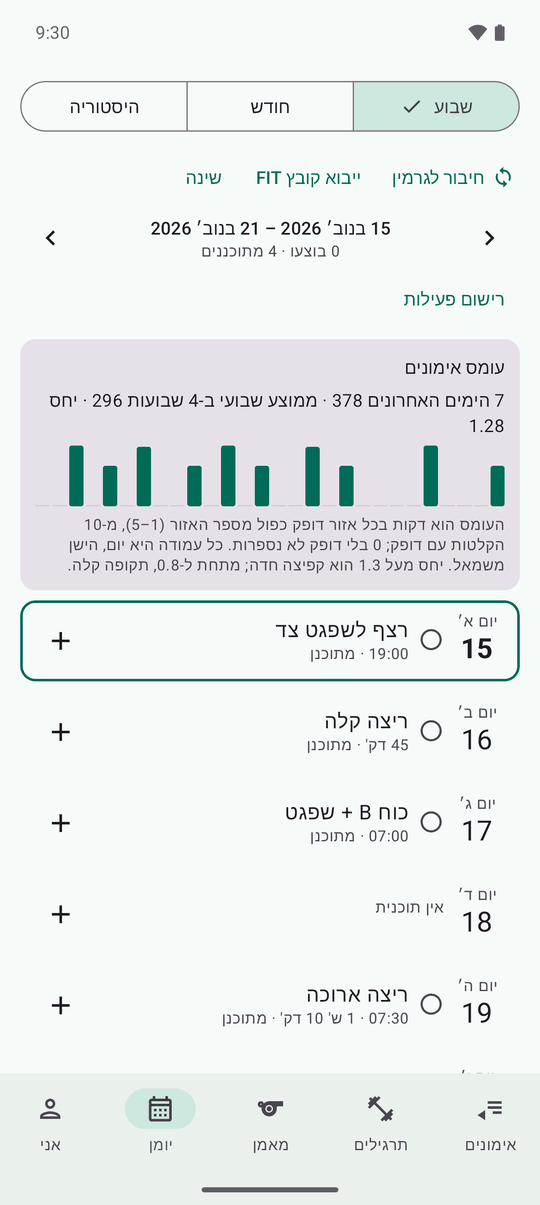
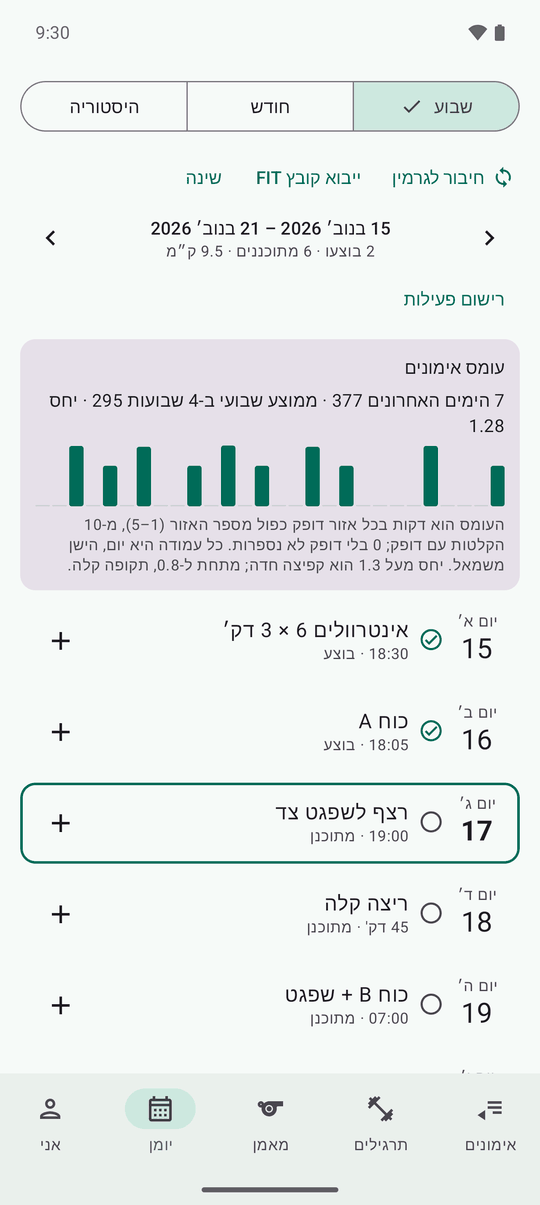
Demo data: a recovery after the last rep too; retake screenshots and tour
The demo intervals run now has a 2-minute recovery after the sixth rep (the
cool-down is that much shorter) and the plan matches. The coach's answer no
longer says "tomorrow" about a run on a different day. Screenshots and the
tour are retaken (the journal week now shows the current week).

diff --git a/app/src/debug/java/com/yonizilber/flownics/demo/DemoSeeder.kt b/app/src/debug/java/com/yonizilber/flownics/demo/DemoSeeder.kt
@@ -335,9 +335,9 @@ class DemoSeeder @Inject constructor(
             add(PlannedStep(SegmentKind.WARMUP, durationSeconds = 15 * 60, maxHeartRate = 150))
             repeat(6) { i ->
                 add(PlannedStep(SegmentKind.WORK, durationSeconds = 180, paceFastSecondsPerKm = 265, paceSlowSecondsPerKm = 275))
-                if (i < 5) add(PlannedStep(SegmentKind.RECOVERY, durationSeconds = 120))
+                add(PlannedStep(SegmentKind.RECOVERY, durationSeconds = 120))
             }
-            add(PlannedStep(SegmentKind.COOLDOWN, durationSeconds = 10 * 60))
+            add(PlannedStep(SegmentKind.COOLDOWN, durationSeconds = 8 * 60))
         }
         fun day(offset: Int) = today.plusDays(offset.toLong())
         listOf(
@@ -452,11 +452,11 @@ class DemoSeeder @Inject constructor(
         val answer = if (!he) {
             "${if (inRange == paces.size) "All" else "$inRange of"} your ${paces.size} repeats landed inside the 4:25–4:35 target (${paces.joinToString(", ") { fmt(it) }}), and the last one was the fastest, so there was more in the tank.\n\n" +
                 "Heart rate climbed a little from rep to rep (${reps.first().maxHr} → ${reps.last().maxHr} bpm at the peak), normal drift for 6 × 3 minutes, and it fell by about $drop bpm in each 2-minute jog: a good recovery.\n\n" +
-                "Next time keep the same paces and add a seventh repeat. Tomorrow's easy run: stay under 150 bpm."
+                "Next time keep the same paces and add a seventh repeat. Your next easy run: stay under 150 bpm."
         } else {
             "${if (inRange == paces.size) "כל ${paces.size}" else "$inRange מתוך ${paces.size}"} החזרות נכנסו לטווח היעד 4:25–4:35 (${paces.joinToString(", ") { fmt(it) }}), והאחרונה הייתה המהירה ביותר, כלומר נשאר עוד כוח.\n\n" +
                 "הדופק עלה מעט מחזרה לחזרה (${reps.first().maxHr} → ${reps.last().maxHr} בשיא), סחיפה רגילה ב-6 × 3 דקות, וירד בכ-$drop פעימות בכל 2 דקות של ריצה קלה: התאוששות טובה.\n\n" +
-                "בפעם הבאה: אותם קצבים ועוד חזרה שביעית. הריצה הקלה מחר: מתחת ל-150 דופק."
+                "בפעם הבאה: אותם קצבים ועוד חזרה שביעית. הריצה הקלה הבאה: מתחת ל-150 דופק."
         }
         coach.addAssistant(conv, answer, AiModel.GEMINI_FLASH.id, 0.004, start + 15000)
         val note = t("Goal: flat side split by summer.", "מטרה: שפגט צד מלא עד הקיץ.")

diff --git a/app/src/debug/java/com/yonizilber/flownics/demo/DemoRuns.kt b/app/src/debug/java/com/yonizilber/flownics/demo/DemoRuns.kt
@@ -38,9 +38,10 @@ object DemoRuns {
         add(Part(15 * 60, 375, 355, WARMUP))
         repeat(reps) { i ->
             add(Part(repSeconds, repPaces[i], repPaces[i], INTERVAL))
-            if (i < reps - 1) add(Part(recoverySeconds, 400, 395, RECOVERY))
+            // A recovery after every rep, the last too; the cool-down is that much shorter.
+            add(Part(recoverySeconds, 400, 395, RECOVERY))
         }
-        add(Part(10 * 60, 380, 395, COOLDOWN))
+        add(Part(10 * 60 - recoverySeconds, 380, 395, COOLDOWN))
     }
 
     /**
